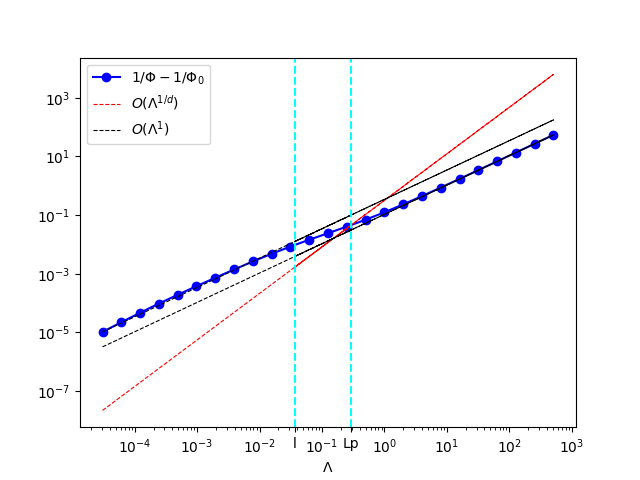
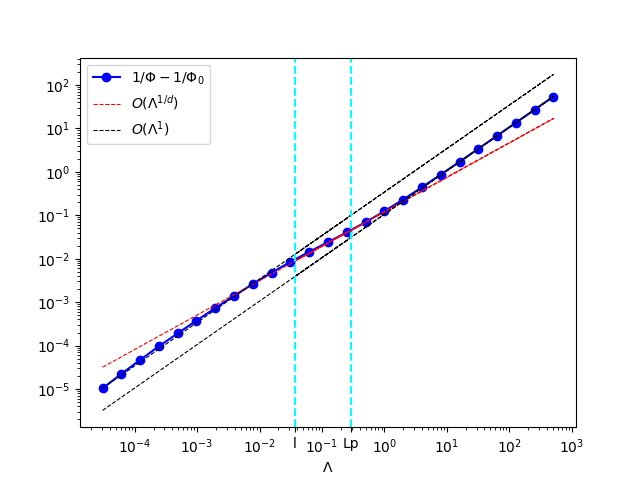
update

diff --git a/Ex4_square_cantor/read_csv.py b/Ex4_square_cantor/read_csv.py
@@ -7,7 +7,7 @@ columns = defaultdict(list) # each value in each column is appended to a list
 nn=3
 l=(1/3)**nn
 Lp=(2/3)**nn
-dim_frac=np.log(2)/np.log(3)
+dim_frac=np.log(4)/np.log(3)
 
 with open(f'results/Phi_Lam_{nn}.csv') as f:
     reader = csv.DictReader(f) # read rows into a dictionary format
